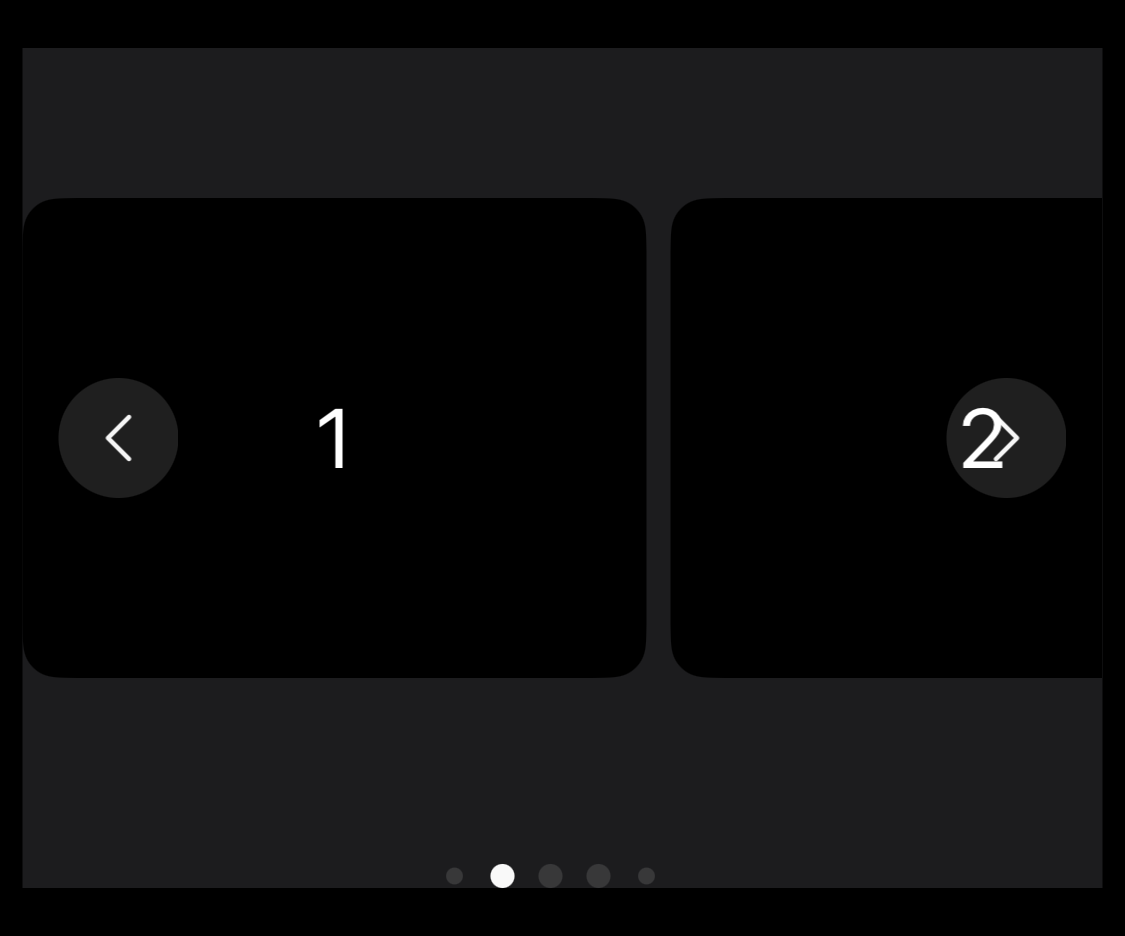
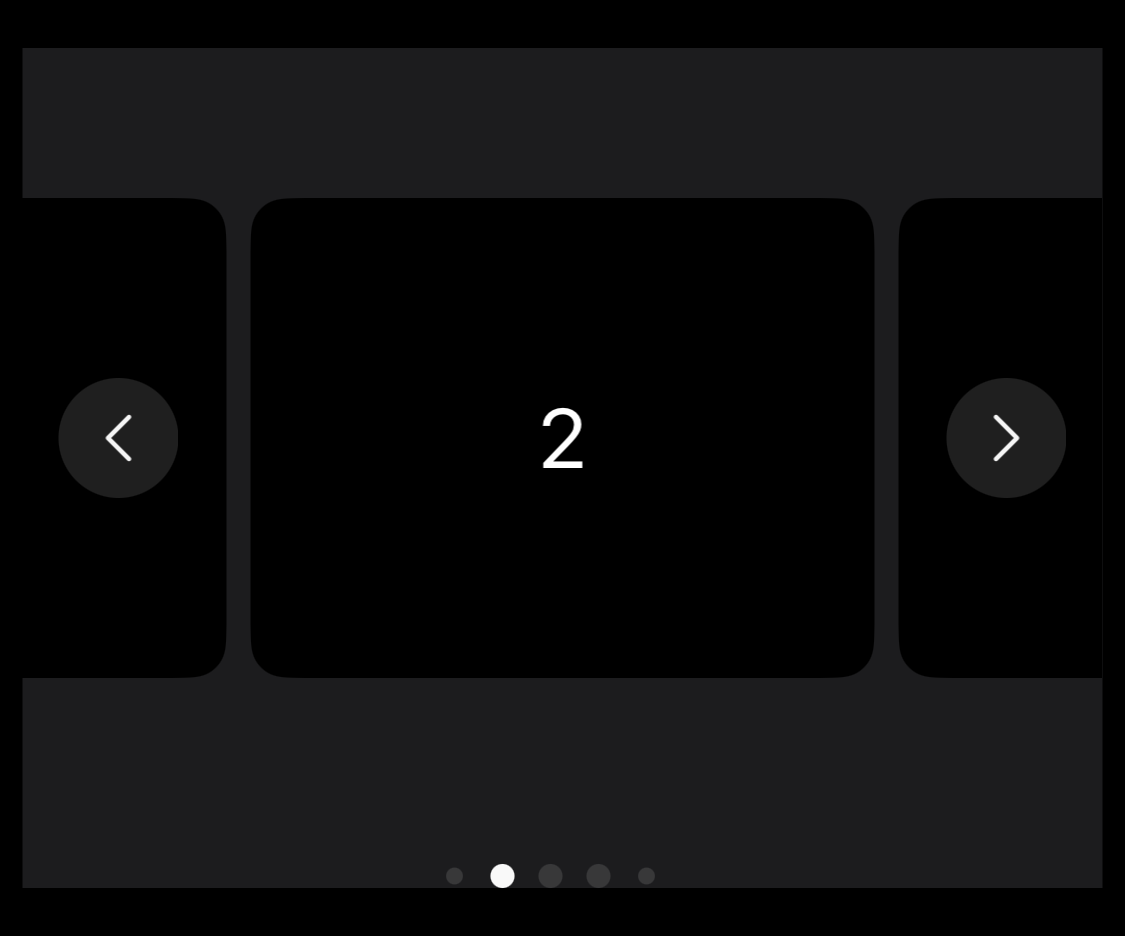
test(sdds): Added carousel snapshots

diff --git a/SDDSDemoApp/SDDSDemoAppTests/SnapshotTests/PlasmaB2CSnapshotTests/CarouselPlasmaB2CSnapshotTest.swift b/SDDSDemoApp/SDDSDemoAppTests/SnapshotTests/PlasmaB2CSnapshotTests/CarouselPlasmaB2CSnapshotTest.swift
@@ -8,13 +8,14 @@ import UIKit
 
 @MainActor
 final class CarouselPlasmaB2CSnapshotTest: PlasmaB2CThemeTestCase {
+    
     func testCarouselButtonsPlacementInnerPlasmaB2C() async throws {
         let appearance = Carousel.buttonsPlacementInner.appearance
         try await runSnapshotTest(
             view: CarouselSnapshotCase(
                 appearance: appearance,
                 selection: 1,
-                pageCount: 6
+                pageCount: 7
             )
         )
     }
@@ -37,6 +38,66 @@ final class CarouselPlasmaB2CSnapshotTest: PlasmaB2CThemeTestCase {
                 appearance: appearance,
                 selection: 0,
                 pageCount: 4
+            )
+        )
+    }
+    
+    func testCarouselStartButtonsPlacementInnerPlasmaB2C() async throws {
+        let appearance = Carousel.buttonsPlacementInner.appearance
+        try await runSnapshotTest(
+            view: CarouselSnapshotCase(
+                appearance: appearance,
+                selection: 1,
+                pageCount: 10,
+                pageAlignment: .start,
+            )
+        )
+    }
+        
+    func testCarouselCenterButtonsPlacementOuterPlasmaB2C() async throws {
+        var appearance = Carousel.buttonsPlacementOuter.appearance
+        appearance.size = DefaultCarouselSize(
+            gap: 0,
+            indicatorPadding: appearance.size.indicatorPadding,
+            nextButtonPadding: appearance.size.nextButtonPadding,
+            prevButtonPadding: appearance.size.prevButtonPadding,
+            buttonsPlacement: appearance.size.buttonsPlacement
+        )
+        
+        try await runSnapshotTest(
+            view: CarouselSnapshotCase(
+                appearance: appearance,
+                selection: 1,
+                pageCount: 10,
+                hasIndicator: false,
+                pageAlignment: .center,
+            )
+        )
+    }
+    
+    func testCarouselEndButtonPlacementInnerPlasmaB2C() async throws {
+        let appearance = Carousel.buttonsPlacementInner.appearance
+        try await runSnapshotTest(
+            view: CarouselSnapshotCase(
+                appearance: appearance,
+                selection: 1,
+                pageCount: 10,
+                indicatorVisibleCount: 10,
+                pageAlignment: .end,
+            )
+        )
+    }
+    
+    func testCarouselCenterButtonsPlacementInnerPlasmaB2C() async throws {
+        let appearance = Carousel.buttonsPlacementInner.appearance
+        try await runSnapshotTest(
+            view: CarouselSnapshotCase(
+                appearance: appearance,
+                selection: 1,
+                pageCount: 10,
+                hasIndicator: false,
+                hasControls: false,
+                pageAlignment: .center,
             )
         )
     }

diff --git a/SDDSDemoApp/SDDSDemoAppTests/SnapshotTests/SDDSServSnapshotTests/CarouselSnapshotTest.swift b/SDDSDemoApp/SDDSDemoAppTests/SnapshotTests/SDDSServSnapshotTests/CarouselSnapshotTest.swift
@@ -8,6 +8,7 @@ import UIKit
 
 @MainActor
 final class CarouselSnapshotTest: SDDSServThemeTestCase {
+    
     func testCarouselButtonsPlacementInner() async throws {
         let appearance = Carousel.buttonsPlacementInner.appearance
         try await runSnapshotTest(
@@ -37,6 +38,66 @@ final class CarouselSnapshotTest: SDDSServThemeTestCase {
                 appearance: appearance,
                 selection: 0,
                 pageCount: 4
+            )
+        )
+    }
+    
+    func testCarouselStartButtonsPlacementInner() async throws {
+        let appearance = Carousel.buttonsPlacementInner.appearance
+        try await runSnapshotTest(
+            view: CarouselSnapshotCase(
+                appearance: appearance,
+                selection: 1,
+                pageCount: 10,
+                pageAlignment: .start,
+            )
+        )
+    }
+        
+    func testCarouselCenterButtonsPlacementOuter() async throws {
+        var appearance = Carousel.buttonsPlacementOuter.appearance
+        appearance.size = DefaultCarouselSize(
+            gap: 0,
+            indicatorPadding: appearance.size.indicatorPadding,
+            nextButtonPadding: appearance.size.nextButtonPadding,
+            prevButtonPadding: appearance.size.prevButtonPadding,
+            buttonsPlacement: appearance.size.buttonsPlacement
+        )
+        
+        try await runSnapshotTest(
+            view: CarouselSnapshotCase(
+                appearance: appearance,
+                selection: 1,
+                pageCount: 10,
+                hasIndicator: false,
+                pageAlignment: .center,
+            )
+        )
+    }
+    
+    func testCarouselEndButtonPlacementInner() async throws {
+        let appearance = Carousel.buttonsPlacementInner.appearance
+        try await runSnapshotTest(
+            view: CarouselSnapshotCase(
+                appearance: appearance,
+                selection: 1,
+                pageCount: 10,
+                indicatorVisibleCount: 10,
+                pageAlignment: .end,
+            )
+        )
+    }
+    
+    func testCarouselCenterButtonsPlacementInner() async throws {
+        let appearance = Carousel.buttonsPlacementInner.appearance
+        try await runSnapshotTest(
+            view: CarouselSnapshotCase(
+                appearance: appearance,
+                selection: 1,
+                pageCount: 10,
+                hasIndicator: false,
+                hasControls: false,
+                pageAlignment: .center,
             )
         )
     }

diff --git a/SDDSDemoApp/SDDSDemoAppTests/CarouselTestCase/CarouselTestCases.swift b/SDDSDemoApp/SDDSDemoAppTests/CarouselTestCase/CarouselTestCases.swift
@@ -10,6 +10,7 @@ struct CarouselSnapshotCase: View {
     let hasIndicator: Bool
     let hasControls: Bool
     let indicatorVisibleCount: Int
+    let pageAlignment: CarouselSlideAlignment
 
     init(
         appearance: CarouselAppearance,
@@ -17,7 +18,8 @@ struct CarouselSnapshotCase: View {
         pageCount: Int,
         hasIndicator: Bool = true,
         hasControls: Bool = true,
-        indicatorVisibleCount: Int = 5
+        indicatorVisibleCount: Int = 5,
+        pageAlignment: CarouselSlideAlignment = .center
     ) {
         self._selection = State(initialValue: selection)
         self.appearance = appearance
@@ -25,6 +27,7 @@ struct CarouselSnapshotCase: View {
         self.hasIndicator = hasIndicator
         self.hasControls = hasControls
         self.indicatorVisibleCount = indicatorVisibleCount
+        self.pageAlignment = pageAlignment
     }
 
     var body: some View {
@@ -36,6 +39,7 @@ struct CarouselSnapshotCase: View {
                 hasIndicator: hasIndicator,
                 hasControls: hasControls,
                 indicatorVisibleCount: indicatorVisibleCount,
+                pageAlignment: pageAlignment,
                 appearance: appearance
             ) { index in
                 ZStack {